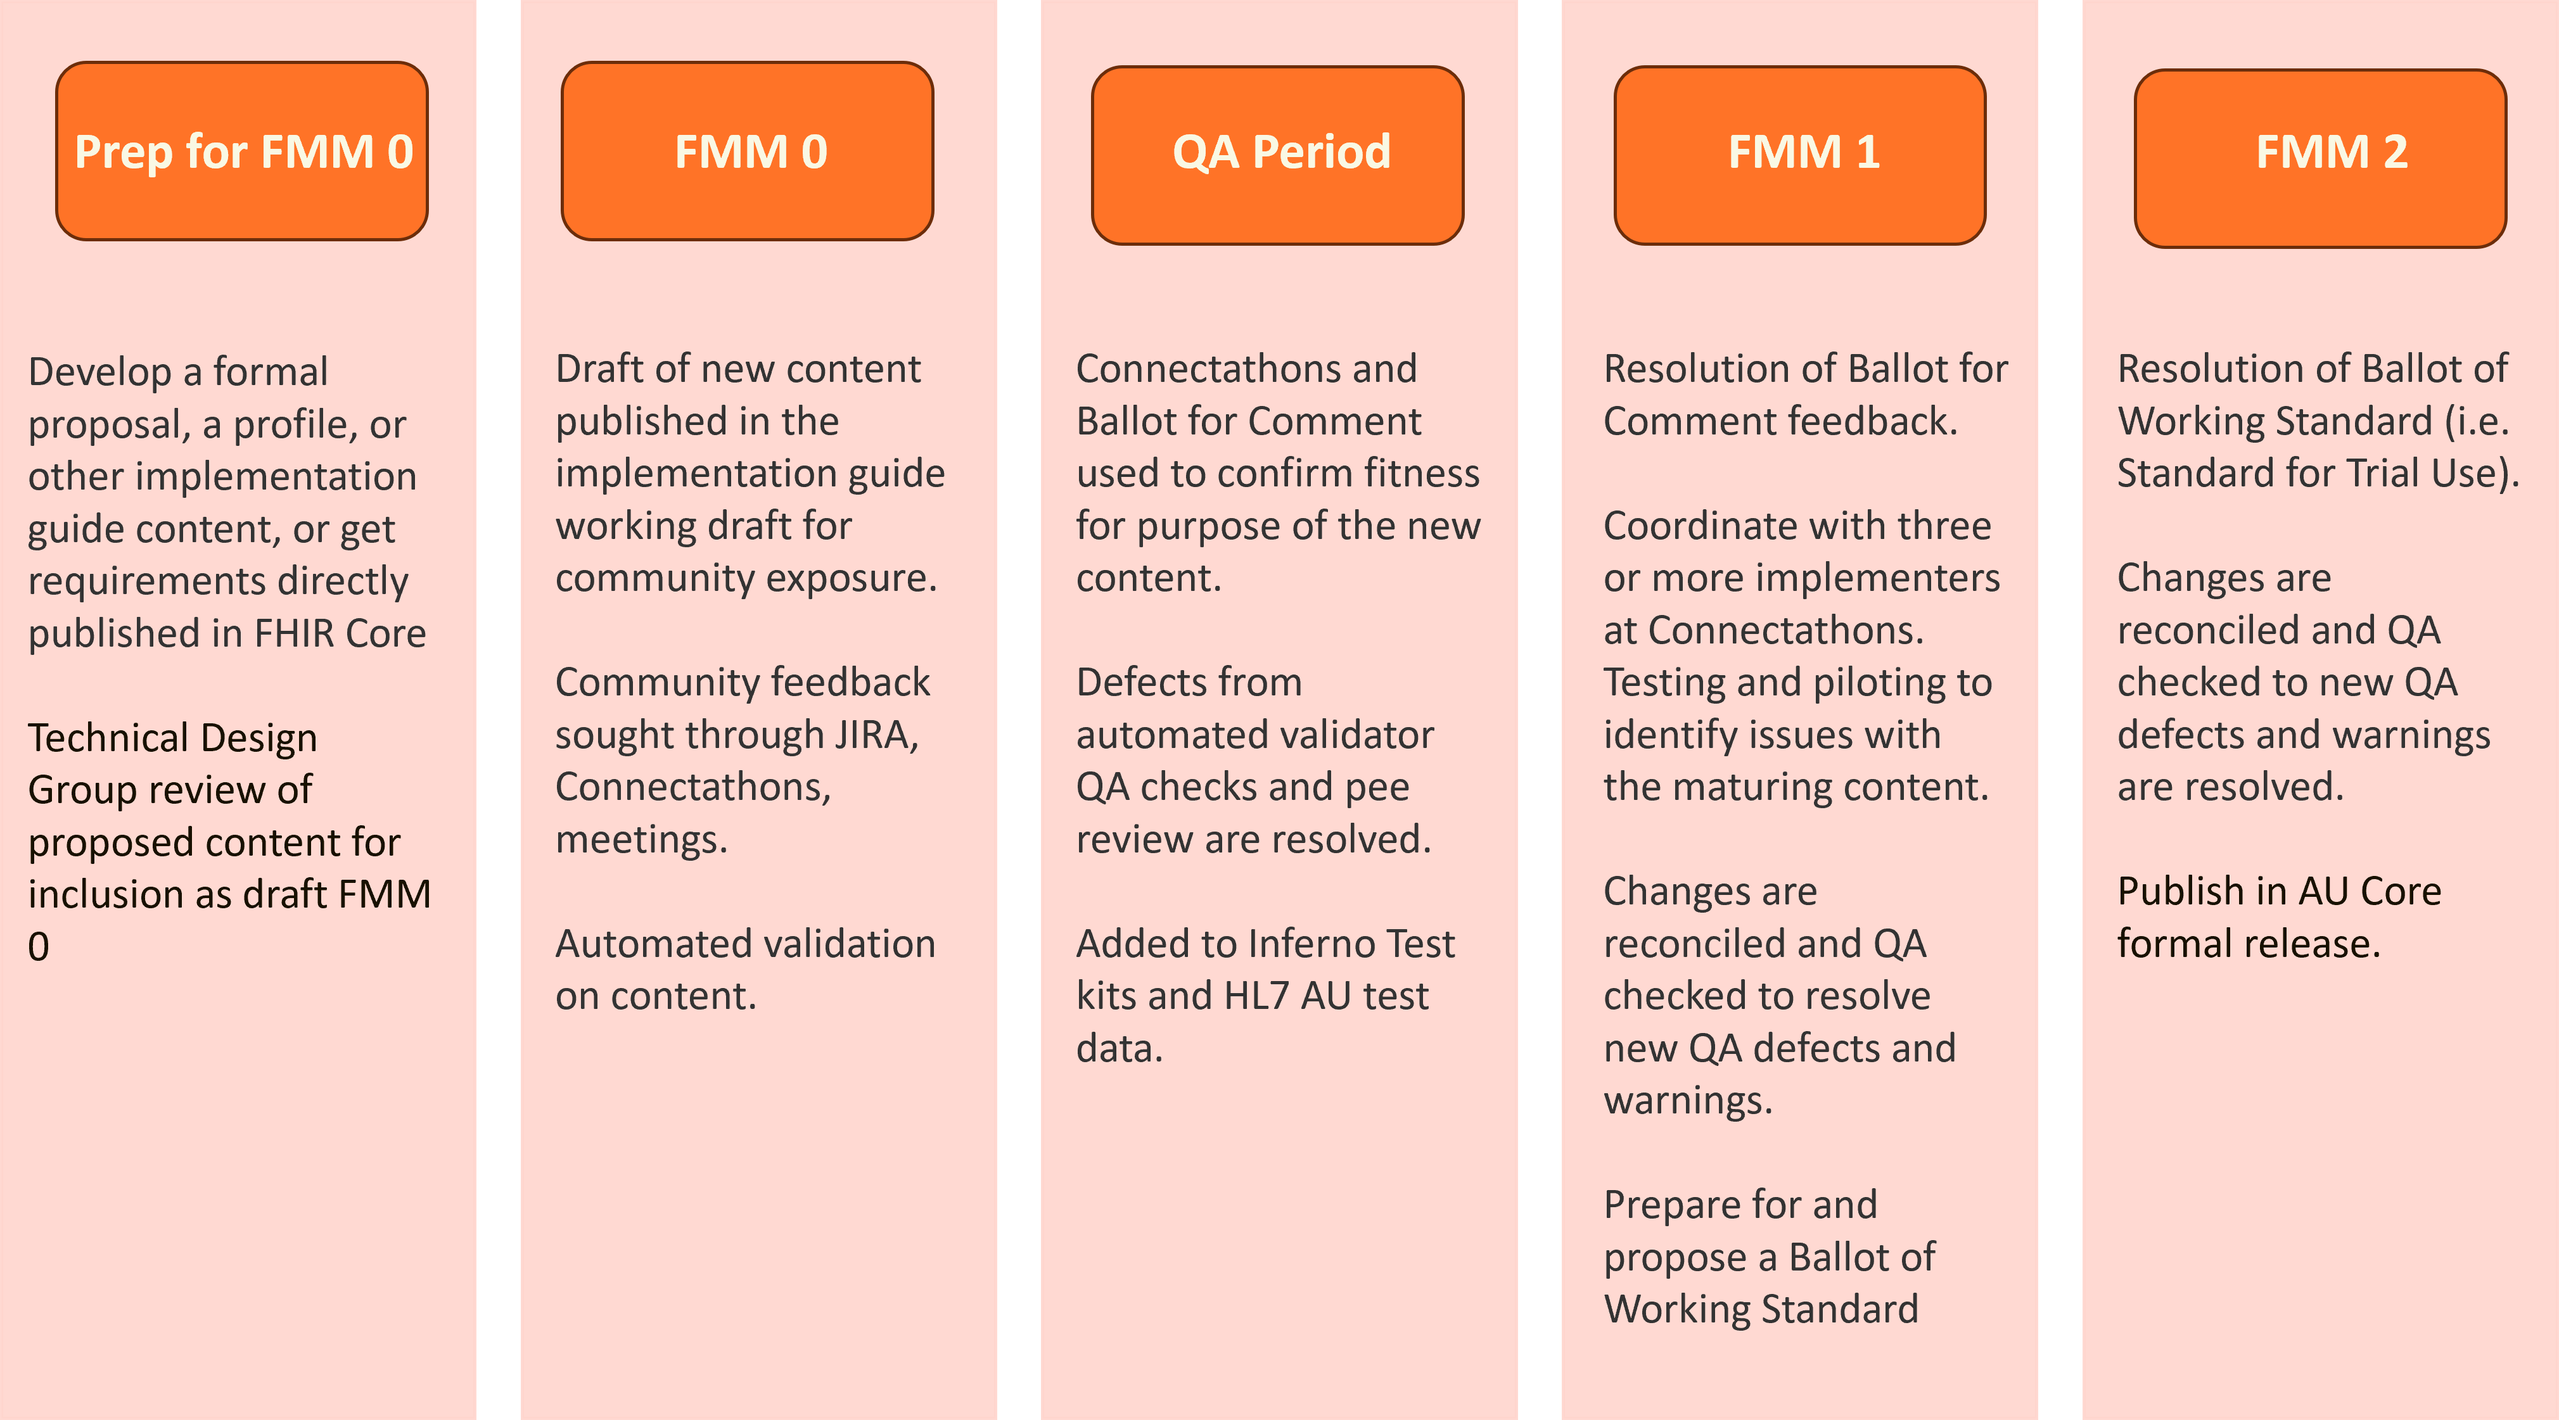
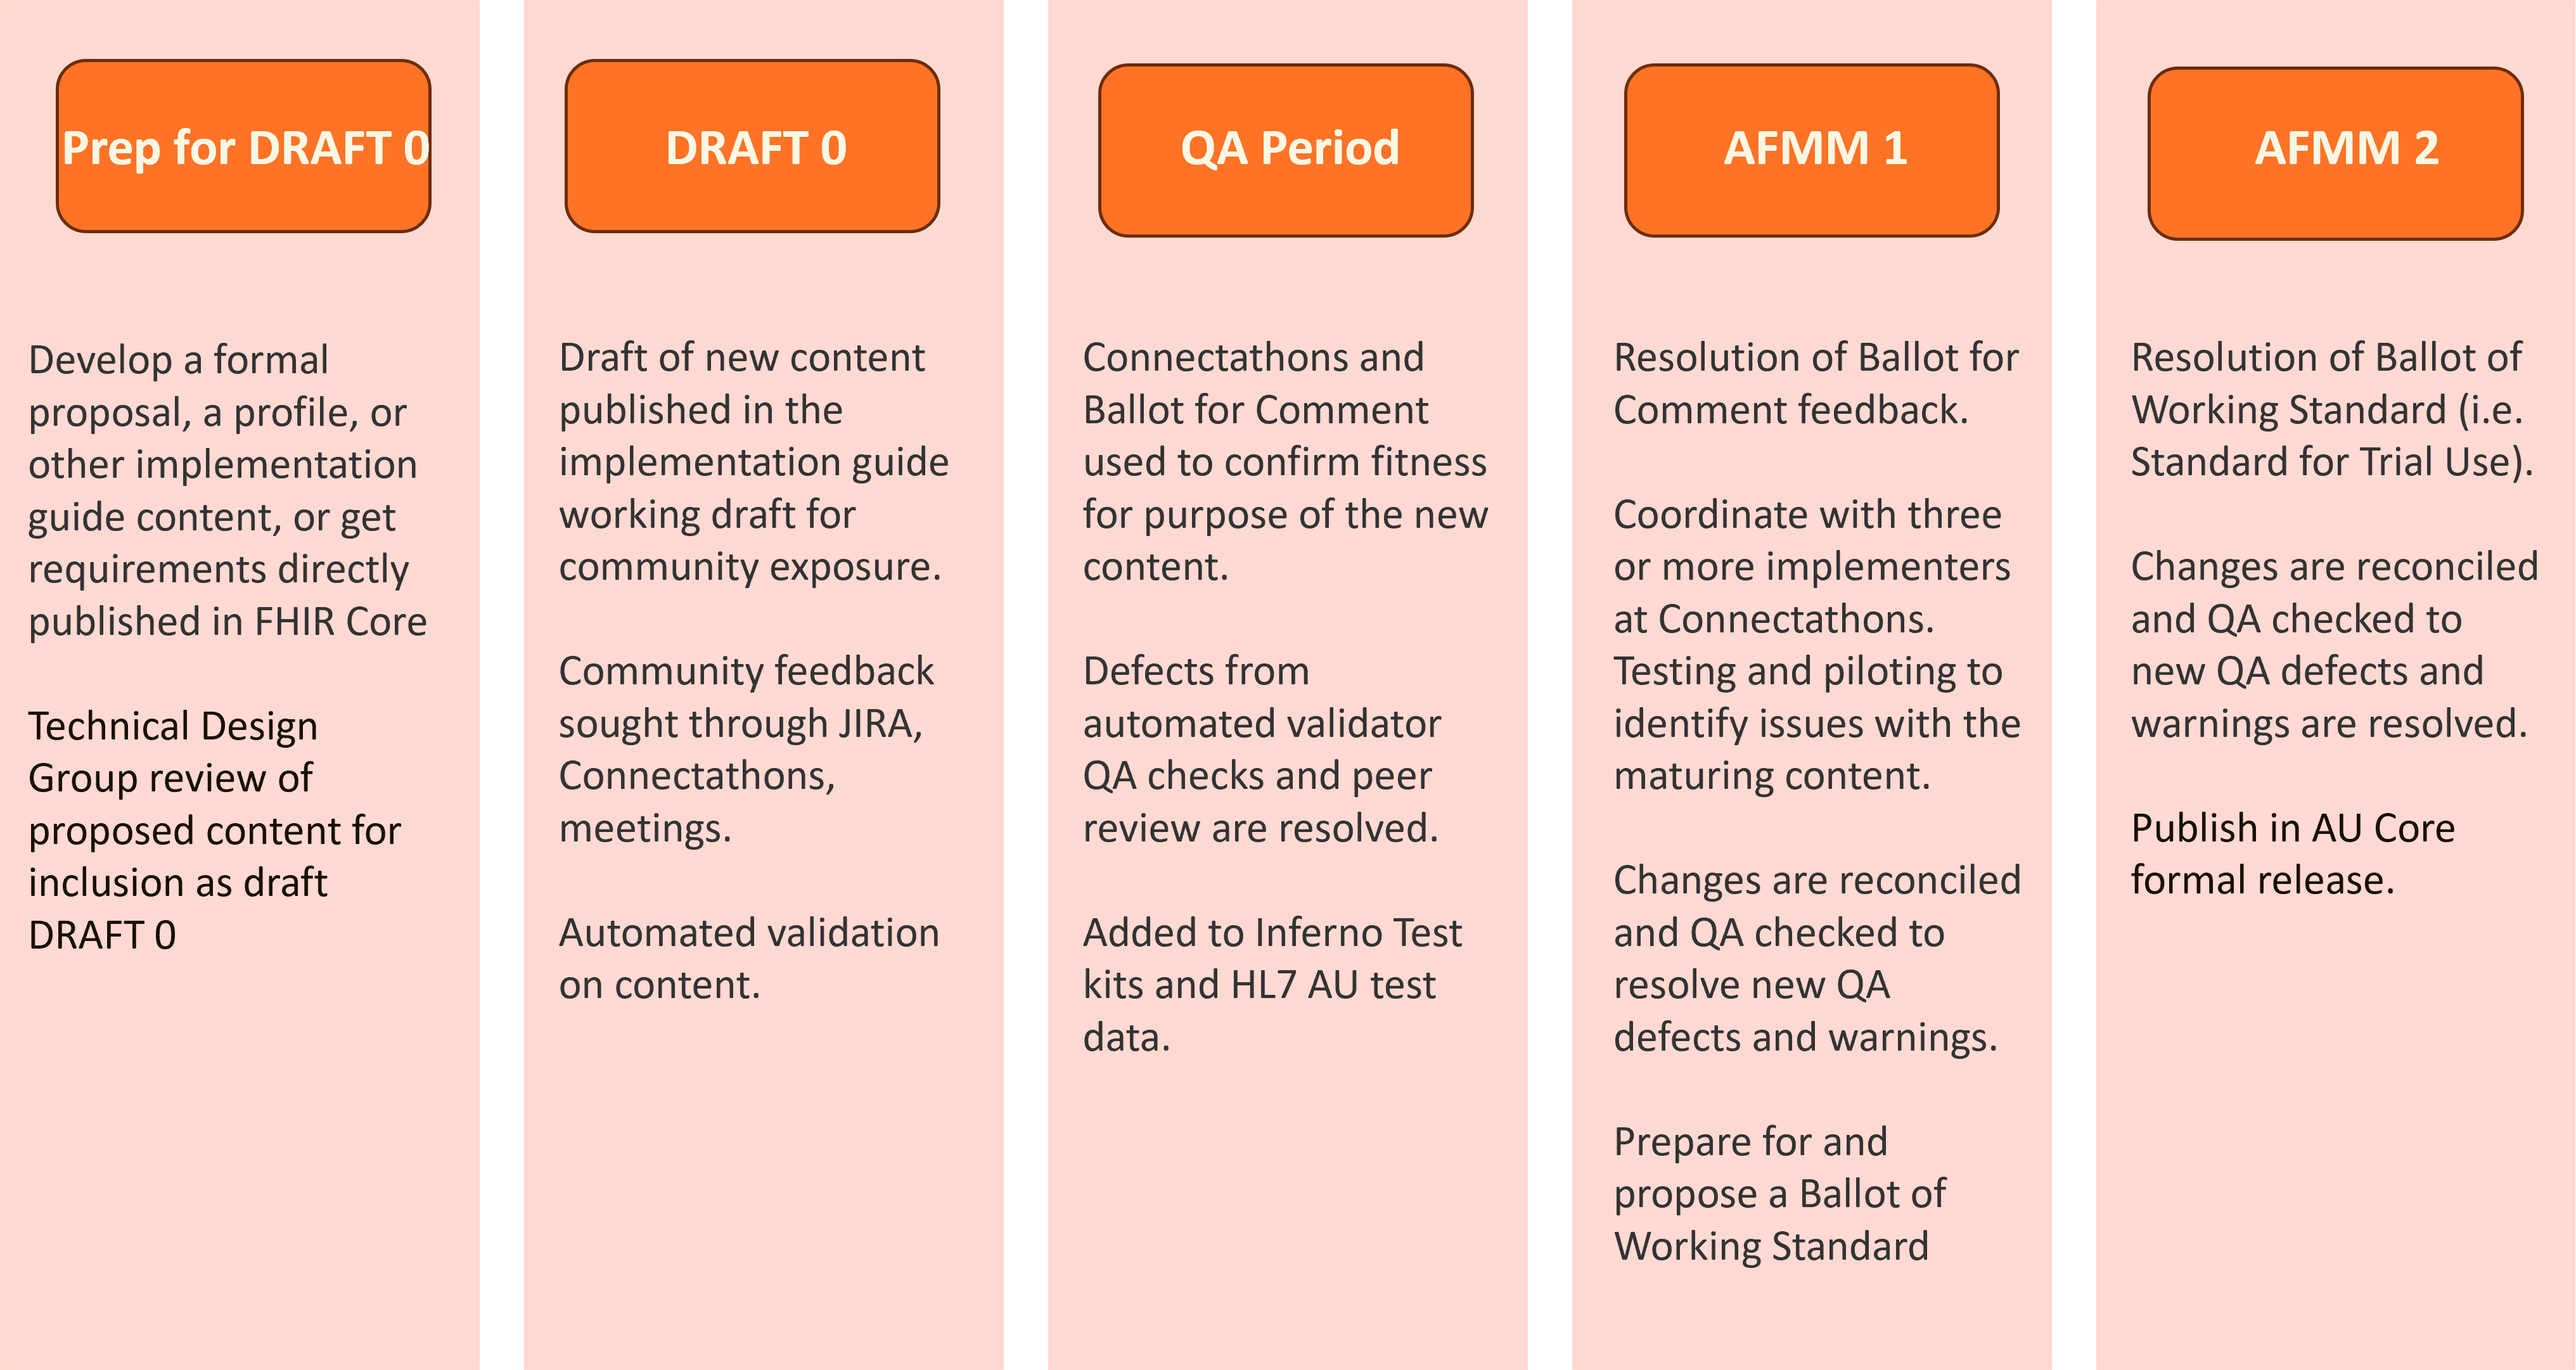
change FMM to AFMM

diff --git a/input/pagecontent/future.md b/input/pagecontent/future.md
@@ -23,7 +23,7 @@ The first release of AU Core is an 18 month process from HL7 AU proposal to publ
 <br/>
 
 #### Maturing the Baseline
-The approach to develop and mature AU Core is outlined below making reference to the [FHIR Maturity Level (FMM) levels](https://build.fhir.org/ig/hl7au/au-fhir-base/guidance.html#maturity-levels) is shown in the figure below.
+The approach to develop and mature AU Core is outlined below making reference to the [Australian FHIR Maturity Level (AFMM) levels](https://build.fhir.org/ig/hl7au/au-fhir-base/guidance.html#maturity-levels) is shown in the figure below.
 
  <div> 
     <img src="maturing.png" alt="Maturing the AU Core baseline" style="width:80%"/>
